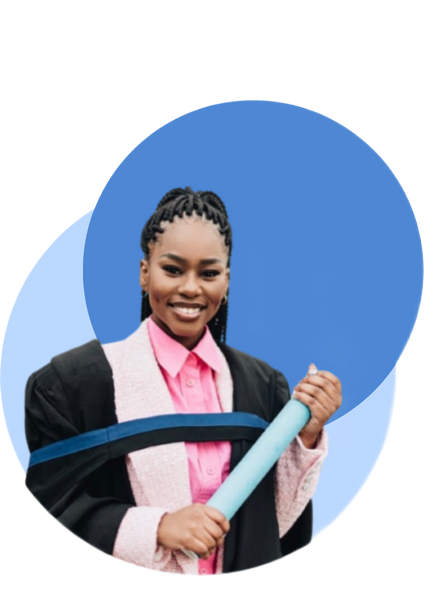
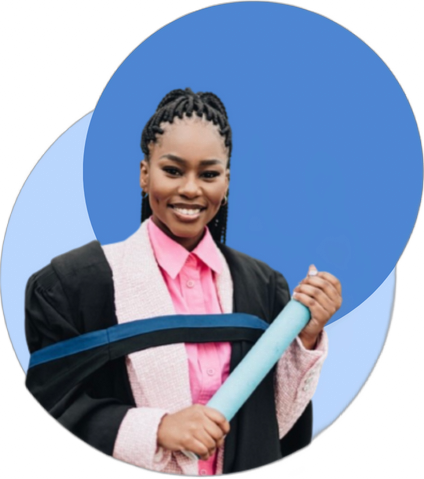
modified alignment on about page

diff --git a/src/components/about/About.jsx b/src/components/about/About.jsx
@@ -9,18 +9,18 @@ function About() {
   return (
     <section className="about" id="about">
       <Container fluid>
-      <h1 className="about-Heading">About Me</h1>
+      <h1 className="about-Heading" >About Me</h1>
         <Row className="Row-Col-About-Col">
           <Col md={5} sm={12} xs={12} className='abt-img'>
             <div className="img-container">
               <img src={Image} alt="Image" className="about-Img" />
             </div>
           </Col>
-          <Col md={6} sm={12} xs={12} className="align-self-center">
+          <Col md={6} sm={12} xs={12} className="align-self-center-about">
             <div className="about-content-text">
-            <p className='paragraph'>Hello there! I am a junior software developer. I build websites using front-end and back-end. I'm very creative. I'm good with graphics and design. I am very passionate and dedicated to my work. With the training experience, I've gained at my learnership, I have acquired the skills and knowledge necessary to make projects a success. Fun facts about me are, I love listening to music and dancing. And I enjoy going to the gym.</p>
-            </div>
+            <p className='paragraph'>Hello there! I'm a junior software developer. I build websites using front-end and back-end. I'm very creative. I'm good with graphics and design. I am very passionate and dedicated to my work. With the training experience, I've gained at my learnership, I have acquired the skills and knowledge necessary to make projects a success. Fun facts about me are, I love listening to music and dancing. And I enjoy going to the gym.</p>
             <Button className='bounce-button' variant='custom-about' type='submit' href={CV} download='' target='_blank'>Hire Me</Button>
+            </div>
           </Col>
         </Row>
       </Container>

diff --git a/src/components/about/About.css b/src/components/about/About.css
@@ -47,7 +47,7 @@
     font-family: 'Share Tech Mono', monospace;
     font-size: 36px;
     font-weight: bold;
-    padding-left: 850px;
+    padding-left: 930px;
     margin-top: 80px;
     text-align: left;
     
@@ -58,7 +58,7 @@
     font-family: 'Fira Sans Extra Condensed', sans-serif;
     font-size: 20px; /* Adjust the font size as needed */
     height: 186px;
-    margin-bottom: 297px;
+    margin-bottom: 200px;
     padding-left: 200px;
     color:  #042D3F;
 }
@@ -73,7 +73,7 @@
   color: white;
   width: '';
   border-radius: 20px;
-  margin-left: 100px;
+  margin-left: 370px;
   margin-bottom: 100%;;
 
 }
@@ -85,12 +85,21 @@
 
   
 @media  (max-width:768px) {
+.about .paragraph{
+  padding-left: 5px;
+  
+}
+  
+  
+  
+  
   .about-Heading{
     font-size: 36px;
     text-align: center;
-    padding-bottom: 0px;
-    margin-bottom: 0px;
+    padding-bottom: 50px;
+    margin-bottom: 10px;
     padding-left: 0px;
+    height: 30px;
     
 
   }
@@ -102,23 +111,38 @@
     padding-top: 0px;
     padding-left: 96px;
     margin-left: 0px;
-    width: 314px
-
-    
+    width: 314px;
   }
+
+  .align-self-center-about{
+    padding-right: 50px;
+    height: 500px;
+    margin-right: 100px;
+
+  }
+
+  .about-content-text{
+    width: 800px;
+    height: 50px;
+    padding-right: 50px;
+    margin-right: 200px;
+     
+  }
+
+
   .p.paragraph{
     padding-bottom: 4px;
-    padding-left: -13;
-    padding-right: 36px;
-    font-size: medium;
-    margin-bottom: 0px
-
+    padding-right: 10px;
+    padding-left: 20px;
+  
   }
 
-  .bounce-button btn btn-custom-about{
+  .bounce-button {
     margin-left: 144px;
 
   }
+
   
-  }
+
+}
 

diff --git a/src/components/home/Home.jsx b/src/components/home/Home.jsx
@@ -11,7 +11,7 @@ function Home() {
     <section className="home" id="home">
       <Container>
         <Row className="Row-Col home-col">
-          <Col classname="home-col" md={6} className="align-self-center">
+          <Col classname="home-col" md={6} className="align-self-center-home">
             <div className="home-content">
               <h1>Hello, I'm</h1>
               <h2 className="home-content h2">Sima Peter</h2>
@@ -19,7 +19,7 @@ function Home() {
                 I am a junior software developer based in Cape Town,
                 currently building websites using front-end and back-end.
               </p>
-              <Button variant='custom-home' type='submit' href="#about" >About me</Button>
+              <Button variant='custom-home' className='custom-home' type='submit' href="#about" >About me</Button>
             </div>
           </Col>
           <Col md={6} className='jpg'>

diff --git a/src/components/home/Home.css b/src/components/home/Home.css
@@ -5,7 +5,7 @@
     height: 100vh;
     background-image: url('../Img/Home-bg.jpg');
     background-size: cover;
-    padding: 50px;
+
   }
 
   .home-content {
@@ -58,7 +58,7 @@
     background-color: #356093;
     border-color: #C6DCF0;
     color: white;
-    width: '';
+    width: 25%;
     border-radius: 50%;
     margin-left: 1px;
 
@@ -95,7 +95,7 @@
 @media (max-width: 768px ) {
   .home-content h1 {
     font-size: 50px;
-    margin-top: 100px;
+    margin-top: 150px;
     padding-left: 20px;
     
   }
@@ -116,5 +116,9 @@
     display: none;
   }
 
+  .custom-home {
+    width: 30%;
+    font-size:1.5rem;
+  }
 
 }

diff --git a/src/App.css b/src/App.css
@@ -1,6 +1,6 @@
 section {
     min-height: 100vh;
-    padding: 150px;
+    /* padding: 150px; */
     box-sizing: border-box;
-    height: 150px;
+    /* height: 150px; */
     }
